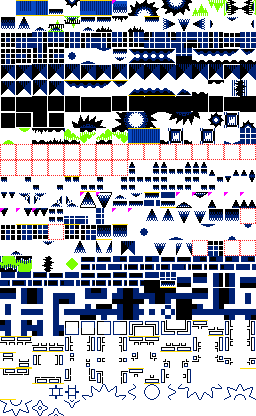
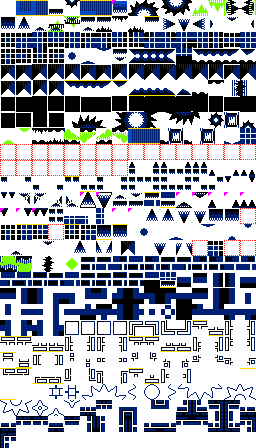
Electroman ball rails (1.6_EA_*) in the catalog, GDA's art as a placeholder
The 28 rail pieces with their GDA hitboxes (the EA box collision types); no art of ours yet, so
GDA's art converted to our 4 colours by brightness, to be redrawn.

diff --git a/levels/objects/objects.tsx b/levels/objects/objects.tsx
@@ -1,6 +1,6 @@
 <?xml version="1.0" encoding="UTF-8"?>
-<tileset version="1.10" tiledversion="1.11.2" name="objects" tilewidth="16" tileheight="16" tilecount="416" columns="16">
- <image source="objects_preview.png" width="256" height="416"/>
+<tileset version="1.10" tiledversion="1.11.2" name="objects" tilewidth="16" tileheight="16" tilecount="448" columns="16">
+ <image source="objects_preview.png" width="256" height="448"/>
  <tile id="0">
   <properties>
    <property name="name" value="EMPTY"/>
@@ -3750,6 +3750,286 @@
    <property name="palette" type="int" value="0"/>
    <property name="famidash_id" type="int" value="4"/>
    <property name="dmg_art" type="int" value="0"/>
+  </properties>
+ </tile>
+ <tile id="405">
+  <properties>
+   <property name="name" value="1.6_EA_MIDDLE_SLAB"/>
+   <property name="collision" type="int" value="73"/>
+   <property name="palette" type="int" value="0"/>
+   <property name="famidash_id" type="int" value="-1"/>
+   <property name="dmg_art" type="int" value="-1"/>
+   <property name="gda_name" value="1.6_EA_MIDDLE_SLAB"/>
+  </properties>
+ </tile>
+ <tile id="406">
+  <properties>
+   <property name="name" value="1.6_EA_MIDDLE_SLAB_UD"/>
+   <property name="collision" type="int" value="72"/>
+   <property name="palette" type="int" value="0"/>
+   <property name="famidash_id" type="int" value="-1"/>
+   <property name="dmg_art" type="int" value="-1"/>
+   <property name="gda_name" value="1.6_EA_MIDDLE_SLAB_UD"/>
+  </properties>
+ </tile>
+ <tile id="407">
+  <properties>
+   <property name="name" value="1.6_EA_CORNER_BR"/>
+   <property name="collision" type="int" value="79"/>
+   <property name="palette" type="int" value="0"/>
+   <property name="famidash_id" type="int" value="-1"/>
+   <property name="dmg_art" type="int" value="-1"/>
+   <property name="gda_name" value="1.6_EA_CORNER_BR"/>
+  </properties>
+ </tile>
+ <tile id="408">
+  <properties>
+   <property name="name" value="1.6_EA_CORNER_BL"/>
+   <property name="collision" type="int" value="78"/>
+   <property name="palette" type="int" value="0"/>
+   <property name="famidash_id" type="int" value="-1"/>
+   <property name="dmg_art" type="int" value="-1"/>
+   <property name="gda_name" value="1.6_EA_CORNER_BL"/>
+  </properties>
+ </tile>
+ <tile id="409">
+  <properties>
+   <property name="name" value="1.6_EA_CORNER_TR"/>
+   <property name="collision" type="int" value="77"/>
+   <property name="palette" type="int" value="0"/>
+   <property name="famidash_id" type="int" value="-1"/>
+   <property name="dmg_art" type="int" value="-1"/>
+   <property name="gda_name" value="1.6_EA_CORNER_TR"/>
+  </properties>
+ </tile>
+ <tile id="410">
+  <properties>
+   <property name="name" value="1.6_EA_CORNER_TL"/>
+   <property name="collision" type="int" value="76"/>
+   <property name="palette" type="int" value="0"/>
+   <property name="famidash_id" type="int" value="-1"/>
+   <property name="dmg_art" type="int" value="-1"/>
+   <property name="gda_name" value="1.6_EA_CORNER_TL"/>
+  </properties>
+ </tile>
+ <tile id="411">
+  <properties>
+   <property name="name" value="1.6_EA_INS_CRN_BR"/>
+   <property name="collision" type="int" value="83"/>
+   <property name="palette" type="int" value="0"/>
+   <property name="famidash_id" type="int" value="-1"/>
+   <property name="dmg_art" type="int" value="-1"/>
+   <property name="gda_name" value="1.6_EA_INS_CRN_BR"/>
+  </properties>
+ </tile>
+ <tile id="412">
+  <properties>
+   <property name="name" value="1.6_EA_INS_CRN_BL"/>
+   <property name="collision" type="int" value="82"/>
+   <property name="palette" type="int" value="0"/>
+   <property name="famidash_id" type="int" value="-1"/>
+   <property name="dmg_art" type="int" value="-1"/>
+   <property name="gda_name" value="1.6_EA_INS_CRN_BL"/>
+  </properties>
+ </tile>
+ <tile id="413">
+  <properties>
+   <property name="name" value="1.6_EA_INS_CRN_TR"/>
+   <property name="collision" type="int" value="81"/>
+   <property name="palette" type="int" value="0"/>
+   <property name="famidash_id" type="int" value="-1"/>
+   <property name="dmg_art" type="int" value="-1"/>
+   <property name="gda_name" value="1.6_EA_INS_CRN_TR"/>
+  </properties>
+ </tile>
+ <tile id="414">
+  <properties>
+   <property name="name" value="1.6_EA_INS_CRN_TL"/>
+   <property name="collision" type="int" value="80"/>
+   <property name="palette" type="int" value="0"/>
+   <property name="famidash_id" type="int" value="-1"/>
+   <property name="dmg_art" type="int" value="-1"/>
+   <property name="gda_name" value="1.6_EA_INS_CRN_TL"/>
+  </properties>
+ </tile>
+ <tile id="415">
+  <properties>
+   <property name="name" value="1.6_EA_ALIGNER_BL"/>
+   <property name="collision" type="int" value="73"/>
+   <property name="palette" type="int" value="0"/>
+   <property name="famidash_id" type="int" value="-1"/>
+   <property name="dmg_art" type="int" value="-1"/>
+   <property name="gda_name" value="1.6_EA_ALIGNER_BL"/>
+  </properties>
+ </tile>
+ <tile id="416">
+  <properties>
+   <property name="name" value="1.6_EA_ALIGNER_BR"/>
+   <property name="collision" type="int" value="73"/>
+   <property name="palette" type="int" value="0"/>
+   <property name="famidash_id" type="int" value="-1"/>
+   <property name="dmg_art" type="int" value="-1"/>
+   <property name="gda_name" value="1.6_EA_ALIGNER_BR"/>
+  </properties>
+ </tile>
+ <tile id="417">
+  <properties>
+   <property name="name" value="1.6_EA_ALIGNER_TL"/>
+   <property name="collision" type="int" value="72"/>
+   <property name="palette" type="int" value="0"/>
+   <property name="famidash_id" type="int" value="-1"/>
+   <property name="dmg_art" type="int" value="-1"/>
+   <property name="gda_name" value="1.6_EA_ALIGNER_TL"/>
+  </properties>
+ </tile>
+ <tile id="418">
+  <properties>
+   <property name="name" value="1.6_EA_ALIGNER_TR"/>
+   <property name="collision" type="int" value="72"/>
+   <property name="palette" type="int" value="0"/>
+   <property name="famidash_id" type="int" value="-1"/>
+   <property name="dmg_art" type="int" value="-1"/>
+   <property name="gda_name" value="1.6_EA_ALIGNER_TR"/>
+  </properties>
+ </tile>
+ <tile id="419">
+  <properties>
+   <property name="name" value="1.6_EA_SLAB"/>
+   <property name="collision" type="int" value="73"/>
+   <property name="palette" type="int" value="0"/>
+   <property name="famidash_id" type="int" value="-1"/>
+   <property name="dmg_art" type="int" value="-1"/>
+   <property name="gda_name" value="1.6_EA_SLAB"/>
+  </properties>
+ </tile>
+ <tile id="420">
+  <properties>
+   <property name="name" value="1.6_EA_SLAB_UD"/>
+   <property name="collision" type="int" value="72"/>
+   <property name="palette" type="int" value="0"/>
+   <property name="famidash_id" type="int" value="-1"/>
+   <property name="dmg_art" type="int" value="-1"/>
+   <property name="gda_name" value="1.6_EA_SLAB_UD"/>
+  </properties>
+ </tile>
+ <tile id="421">
+  <properties>
+   <property name="name" value="1.6_EA_UNALIGNED_SLAB_V_TR"/>
+   <property name="collision" type="int" value="75"/>
+   <property name="palette" type="int" value="0"/>
+   <property name="famidash_id" type="int" value="-1"/>
+   <property name="dmg_art" type="int" value="-1"/>
+   <property name="gda_name" value="1.6_EA_UNALIGNED_SLAB_V_TR"/>
+  </properties>
+ </tile>
+ <tile id="422">
+  <properties>
+   <property name="name" value="1.6_EA_UNALIGNED_SLAB_V_TL"/>
+   <property name="collision" type="int" value="74"/>
+   <property name="palette" type="int" value="0"/>
+   <property name="famidash_id" type="int" value="-1"/>
+   <property name="dmg_art" type="int" value="-1"/>
+   <property name="gda_name" value="1.6_EA_UNALIGNED_SLAB_V_TL"/>
+  </properties>
+ </tile>
+ <tile id="423">
+  <properties>
+   <property name="name" value="1.6_EA_UNALIGNED_SLAB_V_BR"/>
+   <property name="collision" type="int" value="75"/>
+   <property name="palette" type="int" value="0"/>
+   <property name="famidash_id" type="int" value="-1"/>
+   <property name="dmg_art" type="int" value="-1"/>
+   <property name="gda_name" value="1.6_EA_UNALIGNED_SLAB_V_BR"/>
+  </properties>
+ </tile>
+ <tile id="424">
+  <properties>
+   <property name="name" value="1.6_EA_UNALIGNED_SLAB_V_BL"/>
+   <property name="collision" type="int" value="74"/>
+   <property name="palette" type="int" value="0"/>
+   <property name="famidash_id" type="int" value="-1"/>
+   <property name="dmg_art" type="int" value="-1"/>
+   <property name="gda_name" value="1.6_EA_UNALIGNED_SLAB_V_BL"/>
+  </properties>
+ </tile>
+ <tile id="425">
+  <properties>
+   <property name="name" value="1.6_EA_UNALIGNED_SLAB_H_BL"/>
+   <property name="collision" type="int" value="73"/>
+   <property name="palette" type="int" value="0"/>
+   <property name="famidash_id" type="int" value="-1"/>
+   <property name="dmg_art" type="int" value="-1"/>
+   <property name="gda_name" value="1.6_EA_UNALIGNED_SLAB_H_BL"/>
+  </properties>
+ </tile>
+ <tile id="426">
+  <properties>
+   <property name="name" value="1.6_EA_UNALIGNED_SLAB_H_BR"/>
+   <property name="collision" type="int" value="73"/>
+   <property name="palette" type="int" value="0"/>
+   <property name="famidash_id" type="int" value="-1"/>
+   <property name="dmg_art" type="int" value="-1"/>
+   <property name="gda_name" value="1.6_EA_UNALIGNED_SLAB_H_BR"/>
+  </properties>
+ </tile>
+ <tile id="427">
+  <properties>
+   <property name="name" value="1.6_EA_UNALIGNED_SLAB_H_TL"/>
+   <property name="collision" type="int" value="72"/>
+   <property name="palette" type="int" value="0"/>
+   <property name="famidash_id" type="int" value="-1"/>
+   <property name="dmg_art" type="int" value="-1"/>
+   <property name="gda_name" value="1.6_EA_UNALIGNED_SLAB_H_TL"/>
+  </properties>
+ </tile>
+ <tile id="428">
+  <properties>
+   <property name="name" value="1.6_EA_UNALIGNED_SLAB_H_TR"/>
+   <property name="collision" type="int" value="72"/>
+   <property name="palette" type="int" value="0"/>
+   <property name="famidash_id" type="int" value="-1"/>
+   <property name="dmg_art" type="int" value="-1"/>
+   <property name="gda_name" value="1.6_EA_UNALIGNED_SLAB_H_TR"/>
+  </properties>
+ </tile>
+ <tile id="429">
+  <properties>
+   <property name="name" value="1.6_EA_INS_CRN_ALT_BR"/>
+   <property name="collision" type="int" value="83"/>
+   <property name="palette" type="int" value="0"/>
+   <property name="famidash_id" type="int" value="-1"/>
+   <property name="dmg_art" type="int" value="-1"/>
+   <property name="gda_name" value="1.6_EA_INS_CRN_ALT_BR"/>
+  </properties>
+ </tile>
+ <tile id="430">
+  <properties>
+   <property name="name" value="1.6_EA_INS_CRN_ALT_BL"/>
+   <property name="collision" type="int" value="82"/>
+   <property name="palette" type="int" value="0"/>
+   <property name="famidash_id" type="int" value="-1"/>
+   <property name="dmg_art" type="int" value="-1"/>
+   <property name="gda_name" value="1.6_EA_INS_CRN_ALT_BL"/>
+  </properties>
+ </tile>
+ <tile id="431">
+  <properties>
+   <property name="name" value="1.6_EA_INS_CRN_ALT_TR"/>
+   <property name="collision" type="int" value="81"/>
+   <property name="palette" type="int" value="0"/>
+   <property name="famidash_id" type="int" value="-1"/>
+   <property name="dmg_art" type="int" value="-1"/>
+   <property name="gda_name" value="1.6_EA_INS_CRN_ALT_TR"/>
+  </properties>
+ </tile>
+ <tile id="432">
+  <properties>
+   <property name="name" value="1.6_EA_INS_CRN_ALT_TL"/>
+   <property name="collision" type="int" value="80"/>
+   <property name="palette" type="int" value="0"/>
+   <property name="famidash_id" type="int" value="-1"/>
+   <property name="dmg_art" type="int" value="-1"/>
+   <property name="gda_name" value="1.6_EA_INS_CRN_ALT_TL"/>
   </properties>
  </tile>
  <wangsets>

diff --git a/tools/import_gda_16.py b/tools/import_gda_16.py
@@ -36,7 +36,16 @@ COLLISION = {
     "COL_SLAB_MED_LEFT": COL_BOX_BASE + 2, "COL_SLAB_MED_RIGHT": COL_BOX_BASE + 3,
     "COL_SLAB_TINY_TOP": COL_BOX_BASE + 4, "COL_SLAB_TINY_BOTTOM": COL_BOX_BASE + 5,
     "COL_SLAB_TINY_LEFT": COL_BOX_BASE + 6, "COL_SLAB_TINY_RIGHT": COL_BOX_BASE + 7,
+    "COL_EA_SLAB_TOP": COL_BOX_BASE + 8, "COL_EA_SLAB_BOTTOM": COL_BOX_BASE + 9,
+    "COL_EA_SLAB_LEFT": COL_BOX_BASE + 10, "COL_EA_SLAB_RIGHT": COL_BOX_BASE + 11,
+    "COL_EA_CORNER_SLAB_TOP_LEFT": COL_BOX_BASE + 12, "COL_EA_CORNER_SLAB_TOP_RIGHT": COL_BOX_BASE + 13,
+    "COL_EA_CORNER_SLAB_BOTTOM_LEFT": COL_BOX_BASE + 14, "COL_EA_CORNER_SLAB_BOTTOM_RIGHT": COL_BOX_BASE + 15,
+    "COL_EA_CORNER_INSIDE_SLAB_TOP_LEFT": COL_BOX_BASE + 16, "COL_EA_CORNER_INSIDE_SLAB_TOP_RIGHT": COL_BOX_BASE + 17,
+    "COL_EA_CORNER_INSIDE_SLAB_BOTTOM_LEFT": COL_BOX_BASE + 18, "COL_EA_CORNER_INSIDE_SLAB_BOTTOM_RIGHT": COL_BOX_BASE + 19,
 }
+# The Electroman ball rails (1.6_EA_*): no art of ours yet, GDA's art converted to 4 colours as a
+# placeholder (outline white -> 3, its light blues -> 1, its dark blues -> 2, background -> 0)
+RAILS = re.compile(r"1\.6_EA_\w+")
 # Pieces of 1_6 objects.chr GDA has outside its 1.6 set: (GDA name, piece, h flip, v flip, collision)
 COL_BREAKABLE = 0x16
 EXTRA_A = [("OUTLINE_BLOCK", "4.0", 0, 0, COL_ALL),
@@ -82,6 +91,22 @@ def gda_art(tiles, chr_, pal):
                 n = (b[y * 4 + x // 2] >> (4 * (x & 1))) & 15
                 c = tuple(pal[n * 3:n * 3 + 3]) if n else None
                 px[(q >> 1) * 8 + (7 - y if v else y)][(q & 1) * 8 + (7 - x if h else x)] = to_index.get(c, 0)
+    return px
+
+
+def gda_rail_art(tiles, chr_, pal):
+    """A GDA metatile's art in our 4 colours by brightness (the rails: see RAILS)"""
+    px = [[0] * 16 for _ in range(16)]
+    for q, (tid, h, v) in enumerate(tiles):
+        b = chr_[tid * 32:tid * 32 + 32]
+        for y in range(8):
+            for x in range(8):
+                n = (b[y * 4 + x // 2] >> (4 * (x & 1))) & 15
+                if not n:
+                    continue
+                r, g, bl = pal[n * 3:n * 3 + 3]
+                i = 3 if (r, g, bl) == (255, 255, 255) else 1 if r * 3 + g * 6 + bl > 1000 else 2
+                px[(q >> 1) * 8 + (7 - y if v else y)][(q & 1) * 8 + (7 - x if h else x)] = i
     return px
 
 
@@ -135,6 +160,9 @@ def main():
         new.append((name, col, flip(ours_b[k], h, v), "1p6blocks %s%s%s" % (k, " H" if h else "", " V" if v else "")))
     for name, k, h, v, col in EXTRA_A:
         new.append((name, col, flip(ours[k], h, v), "%s%s%s" % (k, " H" if h else "", " V" if v else "")))
+    for name, tiles, col in gda_metatiles():
+        if RAILS.fullmatch(name) and col in COLLISION:
+            new.append((name, COLLISION[col], gda_rail_art(tiles, chr_, pal), "GDA art (placeholder)"))
     new = [n for n in new if n[0] not in have]
     if not new:
         raise SystemExit("nothing new to add")

diff --git a/docs/GDA_MISSING_OBJECTS.md b/docs/GDA_MISSING_OBJECTS.md
@@ -6,9 +6,9 @@ colour channel copies and orientations together). Converted levels leave them em
 
 | set | kinds | cells | levels | examples |
 |---|---|---|---|---|
-| OUTLINE | 56 | 5313 | 17 (GDA only) | OUTLINE_BLOCK, OUTLINE_BOTTOM, OUTLINE_BOTTOM_RIGHT, ... |
 | GLOW | 61 | 5301 | 13 (GDA only) | COL1_GLOW_BOTTOM, COL1_GLOW_CORNER_IN_BOTTOM_LEFT, COL1_GLOW_CORNER_IN_BOTTOM_RIGHT, ... |
 | + | 121 | 5064 | 9 (clutterfunk) | +_CORNER_TL, +_CORNER_TR, +_FILLER, ... |
+| OUTLINE | 51 | 5053 | 17 (GDA only) | OUTLINE_BOTTOM, OUTLINE_BOTTOM_RIGHT, OUTLINE_BOTTOM_RIGHT_TOP, ... |
 | 19_GRAYSCALE | 37 | 3046 | 8 (GDA only) | 19_GRAYSCALE_1_FULLBLOCK, 19_GRAYSCALE_1_FULLBLOCK_H, 19_GRAYSCALE_1_FULLBLOCK_HV, ... |
 | BLK | 67 | 2824 | 18 (clutterfunk) | BLK_22_DOWN_1, BLK_22_DOWN_2, BLK_22_DOWN_UD_1, ... |
 | 1.7_PENTAGON | 34 | 2215 | 10 (GDA only) | 1.7_COL1_PENTAGON_DECO_BOT, 1.7_COL1_PENTAGON_DECO_CRN_BL, 1.7_COL1_PENTAGON_DECO_CRN_BR, ... |
@@ -44,7 +44,6 @@ colour channel copies and orientations together). Converted levels leave them em
 | WIRE | 42 | 310 | 4 (GDA only) | COL1_WIRE_SLOPE_22_DOWN_1, COL1_WIRE_SLOPE_22_DOWN_2, COL1_WIRE_SLOPE_22_DOWN_UD_1, ... |
 | 18_FLOWER | 12 | 286 | 2 (GDA only) | 18_FLOWER_BLOCK_ALL_COLORED, 18_FLOWER_BLOCK_COLORED_DOT_2_PETALS_LEFT, 18_FLOWER_BLOCK_COLORED_DOT_2_PETALS_RIGHT, ... |
 | CROSS | 4 | 257 | 3 (GDA only) | COL1_CROSS_SLOPE_45_DOWN, COL1_CROSS_SLOPE_45_DOWN_UD, COL1_CROSS_SLOPE_45_UP, ... |
-| 1.6_EA | 14 | 221 | 2 (electromanadventures) | 1.6_EA_ALIGNER_BL, 1.6_EA_ALIGNER_TR, 1.6_EA_CORNER_BL, ... |
 | 1.7_BLK | 12 | 183 | 2 (GDA only) | 1.7_BLK_BRK_CENTER_HF_T_T, 1.7_BLK_BRK_CENTER_H_B_B, 1.7_BLK_BRK_CENTER_H_T_B, ... |
 | 16_BRIDGE | 20 | 164 | 5 (GDA only) | 16_BRIDGE_SLOPE_22_UP_1, 16_BRIDGE_SLOPE_22_UP_2, 16_BRIDGE_SLOPE_22_UP_UD_1, ... |
 | 19_PCOL | 3 | 157 | 2 (GDA only) | 19_PCOL_DECO_SQUAREEDGE_RT, 19_PCOL_DECO_SQUAREWAVE_DOWN, 19_PCOL_DECO_SQUAREWAVE_UP |
